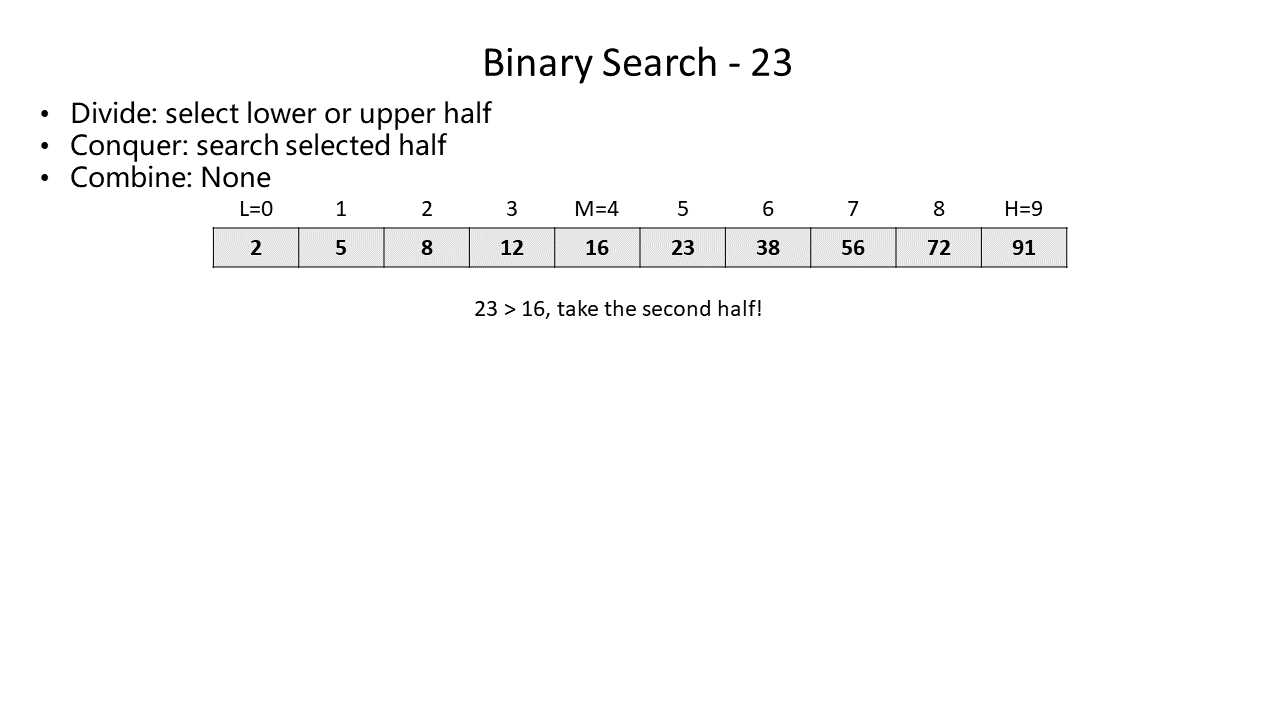
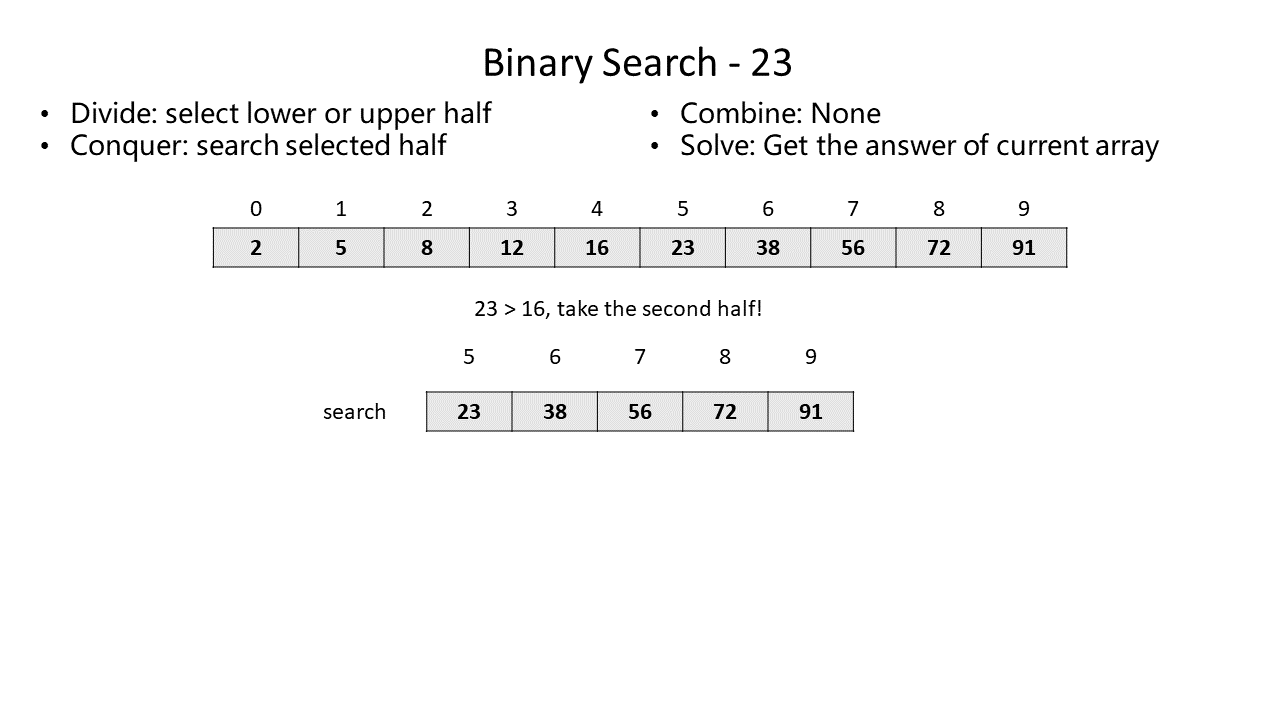
bsearch logic changed

diff --git a/bsearch/script.js b/bsearch/script.js
@@ -2,24 +2,29 @@ var pic;
 var picid = 1;
 function press(sw) {
         if (sw == 0) {
-            if (picid == 2 || picid == 4) {alert("It should be conquer after divide");}
-            else if (picid == 6) {alert("23 is already found!");}
+            if (picid <= 3) {picid += 1;}
+            else if (4 <= picid < 6) {alert("Answer is already found! Now return the answer to the original problem(Try conquer instead!)");}
+            else if (picid == 8) {alert("When the answer to the current array is found, try to return it to the original problem using conquer!");}
             else {
-                picid += 1; 
-                pic = "pics/".concat(picid.toString(),".png");}}
+                alert("Problem solved! Try reset or back instead!");}}
         else  if (sw == 1) {
-            if (picid%2 == 1) {alert("It should be divide after conquer");}
-            else if (picid == 6) {alert("23 is already found!");}
+            if (picid <= 3) {
+                alert("Problem unsolved! Try divide instead!");}
+            else if (4 == picid || picid == 5 || picid == 8) {picid += 1;}
             else {
-                picid +=1; 
-                pic = "pics/".concat(picid.toString(),".png");}}
+                alert("Problem solved! Try reset or back instead!");}}
         else  if (sw == 2) {
-            picid = (picid == 1) ? 1 : picid -=1; 
-            pic = "pics/".concat(picid.toString(),".png");}
+            if (picid == 1) {picid == 1;}
+            else if (picid == 7 || picid == 8) {picid -= 6;}
+            else {picid -= 1};}
+        else if (sw == 3) {picid = 1;}
         else {
-            picid = 1;
-            pic = "pics/".concat(picid.toString(),".png");}
-  document.getElementById('myImage').src = pic;}
+            if (picid < 3) {picid += 6;}
+            else if (picid == 3) {picid += 1;}
+            else if (picid == 6 || picid == 7) {alert("Problem solved! Try reset or back instead!");}
+            else {alert("When the answer to the current array is found, try to return it to the original problem using conquer!");}}
+        pic = "pics/".concat(picid.toString(),".png");
+        document.getElementById('myImage').src = pic;}
 
 function quiz() {
     window.close();

diff --git a/bsearch/main.html b/bsearch/main.html
@@ -17,10 +17,11 @@
 <p>
 <button class="button button1" onclick="press(0)">Divide</button>
 <button class="button button2" onclick="press(1)">Conquer</button>
-<button class="button button3" onclick="press(2)">Back</button>
-<button class="button button4" onclick="press(3)">Reset</button>
-<button class="button button5" onclick="quiz()">Quizzes</button>
-<button class="button button6" onclick="back()">Homepage</button>
+<button class="button button3" onclick="press(4)">Solve</button>
+<button class="button button4" onclick="press(2)">Back</button>
+<button class="button button5" onclick="press(3)">Reset</button>
+<button class="button button6" onclick="quiz()">Quizzes</button>
+<button class="button button1" onclick="back()">Homepage</button>
 </p>
 </body>
 
